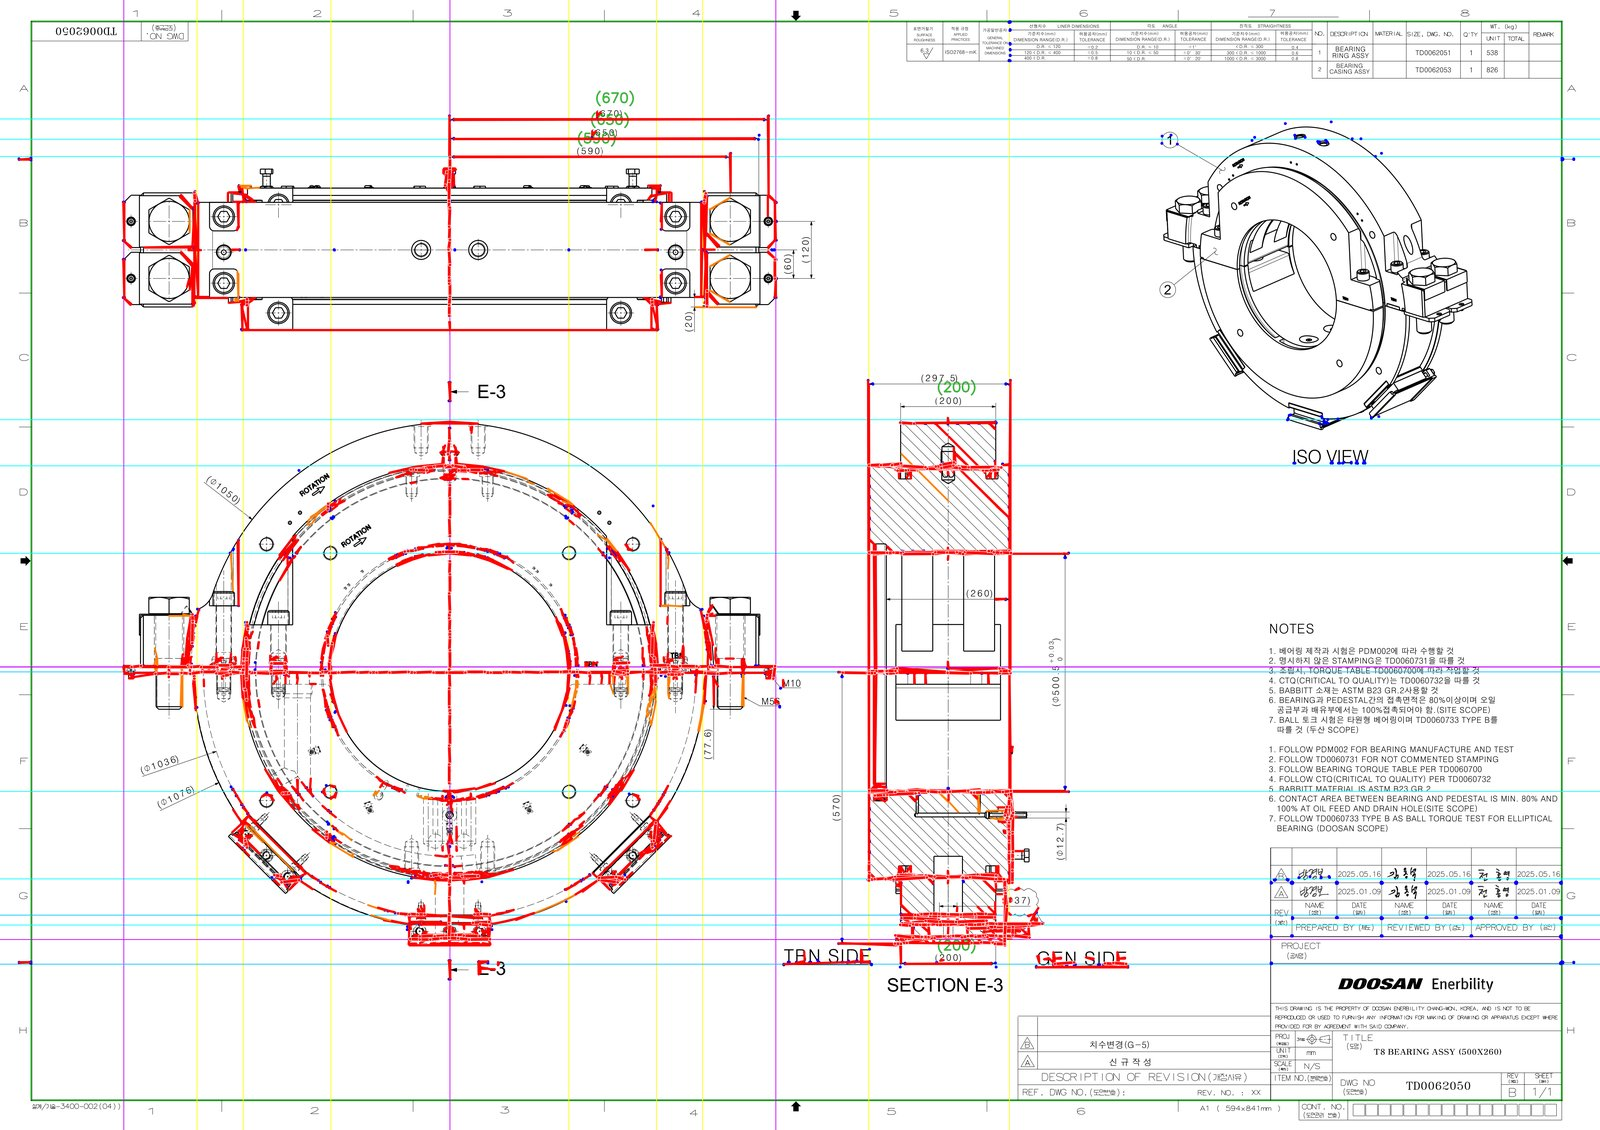
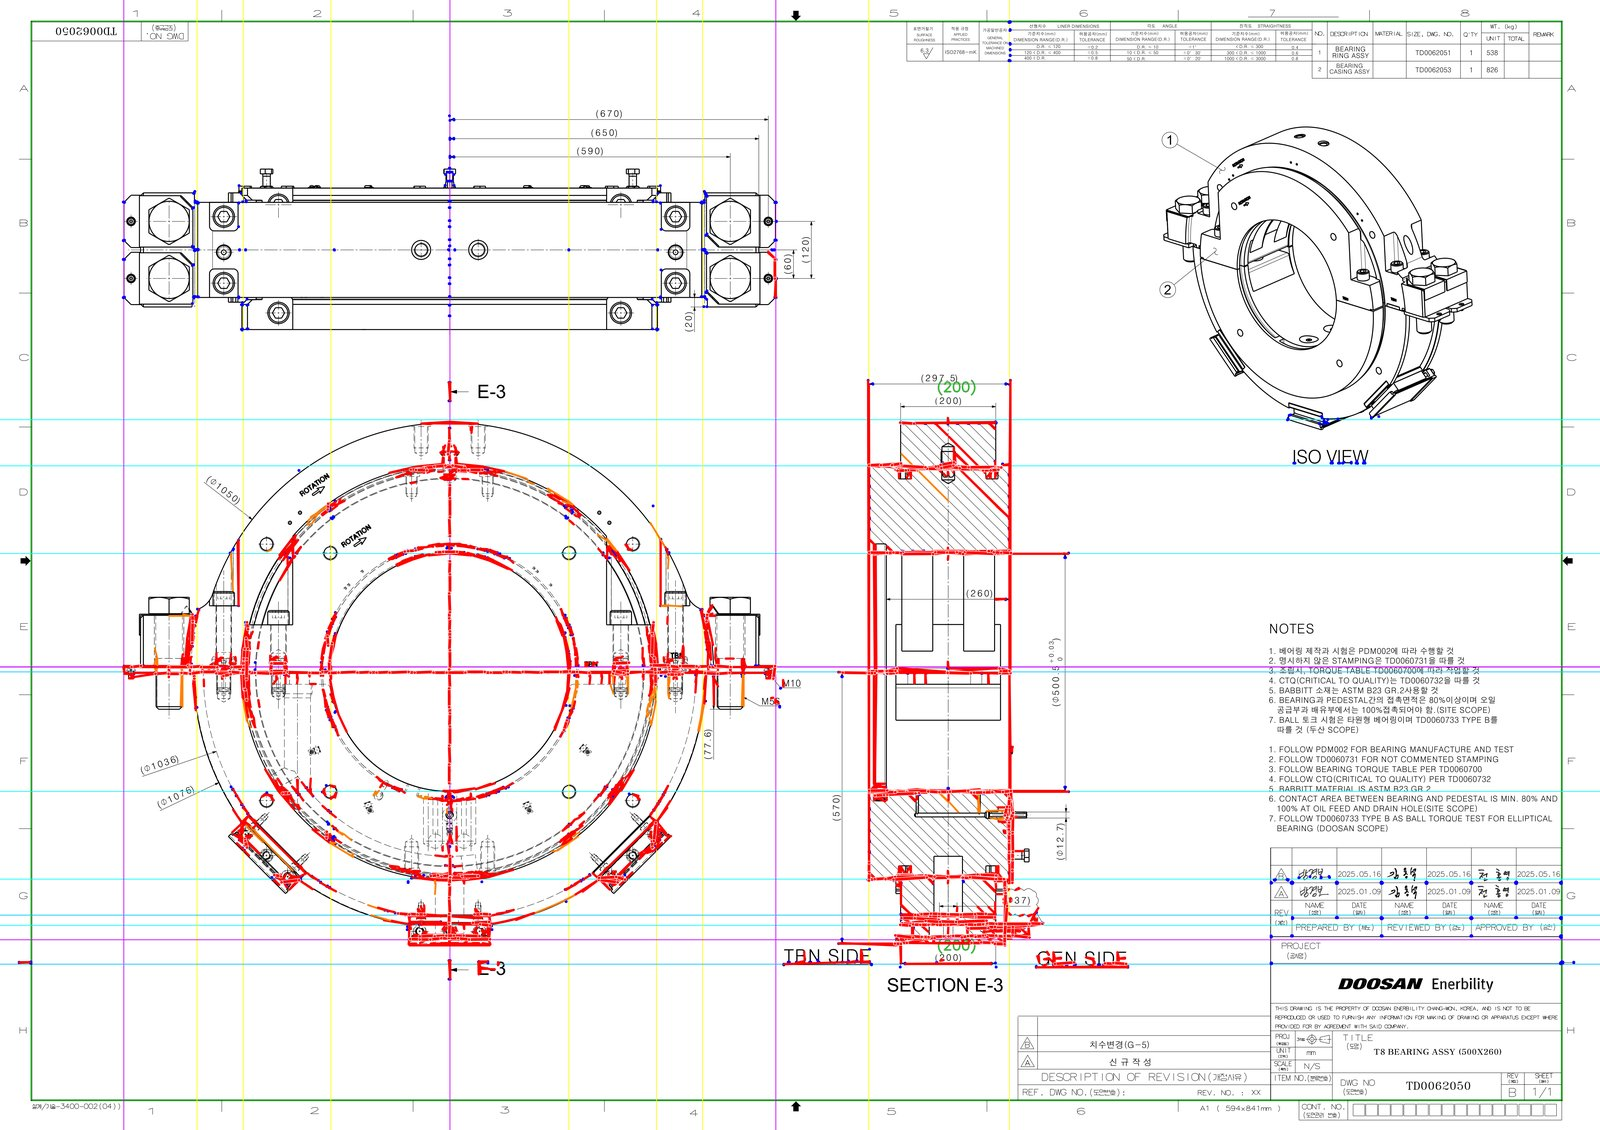
Remove line cap from cardinal v3 OCR overlays

Changed region(s): [[0.0, 0.0619, 1.0, 0.2788], [0.1562, 0.2788, 0.4062, 0.3097], [0.0938, 0.1549, 0.1562, 0.2788]]

diff --git a/blueprint-ai-bom/scripts/s08_cardinal_v3_ocr.py b/blueprint-ai-bom/scripts/s08_cardinal_v3_ocr.py
@@ -44,7 +44,7 @@ OCR_API = resolve_api_url("PADDLEOCR_API_URL", "http://localhost:5006", "/api/v1
 
 ENDPOINT_TOLERANCE = 20
 LINE_MIN_LENGTH = 15
-LINE_MAX_LINES = 5000
+LINE_MAX_LINES = 0  # 0 = 제한 없음
 LINE_CONNECTION_RADIUS = 60.0
 OCR_SEARCH_RADIUS = 150.0
 PROJECTION_AXIS_TOLERANCE = 30.0
